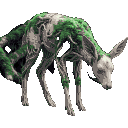
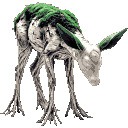
pixelate: chroma key, a lifted ramp floor, and a contrast stretch
Three fixes from putting eleven real creatures through.

⚠ rembg ATE THE HOLLOW STAG'S ANTLERS. It is a segmentation model and it
guesses; thin branching shapes against the low-contrast grey background my
own prompt asked for read as background. Nothing downstream could recover
them.

  --key removes an exact magenta background instead. Lossless on the subject,
  and thin structures survive because there is no guessing. Magenta because
  nothing in a natural bestiary is magenta — white would not do, since the
  Listening Fawn is birch-white and a white key would eat its body.
  The prompts now specify flat #FF00FF, and say why.

⚠ The ramp bottomed out near-black, which crushed any creature that is
mostly mid-tone. The Standing Green is green head to foot and its whole
interior disappeared. The floor is lifted.

⚠ A flatly-lit generation occupies a narrow band of values, so quantising it
directly throws away most of the palette — that is what 'removed details'
actually was. Each subject's own range is now stretched to fill the ramp,
measured over opaque pixels only so the transparent background cannot skew it.

The Standing Green and Listening Fawn are fixed by the tonal changes. The
Stag needs regenerating on magenta; deleted pixels cannot be recovered.

diff --git a/tool/pixelate.py b/tool/pixelate.py
@@ -87,11 +87,35 @@ BACKGROUND_DESATURATE = 0.45
 ALPHA_CUTOFF = 128
 
 
+# ⭐ Chroma key. Nothing in a natural bestiary is magenta, so it can never be
+# confused with the subject — including a birch-WHITE creature, which a white
+# background would eat.
+KEY_COLOUR = (255, 0, 255)
+KEY_TOLERANCE = 60
+
+
+def key_out(img: "Image.Image", tol: int = KEY_TOLERANCE) -> "Image.Image":
+    """Removes an exact background colour.
+
+    ⭐ **Lossless on the subject, and it keeps thin structures.** `rembg` is a
+    segmentation model and it guesses: it ate the Hollow Stag's antlers whole,
+    because branching shapes against a low-contrast background read as
+    background. A colour key cannot make that mistake.
+    """
+    px = np.asarray(img.convert("RGBA")).astype(np.int16)
+    dist = np.abs(px[:, :, :3] - np.array(KEY_COLOUR, dtype=np.int16)).sum(axis=2)
+    px[:, :, 3] = np.where(dist <= tol, 0, px[:, :, 3])
+    return Image.fromarray(px.astype(np.uint8), "RGBA")
+
+
 def cut_out(img: "Image.Image") -> "Image.Image":
     """Removes the background, leaving the subject on alpha.
 
-    ⚠ Optional and lazily imported — `rembg` pulls in onnxruntime and a model
-    download, which is a lot to force on someone whose art already has alpha.
+    ⚠ **Prefer `--key`.** This is a segmentation model and it guesses; on the
+    Hollow Stag it removed the antlers entirely. Use it only for art that was
+    generated without a keyable background.
+
+    ⚠ Lazily imported — `rembg` pulls in onnxruntime and a 176 MB model.
     """
     try:
         from rembg import remove
@@ -129,7 +153,11 @@ def element_colours() -> dict[str, tuple[int, int, int]]:
 def build_ramp(
     rgb: tuple[int, int, int],
     steps: int,
-    shadow: tuple[int, int, int] = (18, 14, 26),
+    # ⚠ **Not near-black.** A ramp bottoming out at the panel colour crushes
+    # any creature that is mostly mid-tone — The Standing Green is green from
+    # head to foot, and the dark half of the Flora ramp swallowed its interior
+    # entirely. A lifted floor keeps detail inside the silhouette.
+    shadow: tuple[int, int, int] = (46, 42, 58),
     light: tuple[int, int, int] = (255, 250, 240),
 ) -> list[tuple[int, int, int]]:
     """A dark-to-light ramp through one colour.
@@ -183,10 +211,13 @@ def to_sprite(
     palette: list[tuple[int, int, int]],
     size: int,
     cutout: bool = False,
+    key: bool = False,
 ) -> Image.Image:
     img = Image.open(src).convert("RGBA")
 
-    if cutout:
+    if key:
+        img = key_out(img)
+    elif cutout:
         img = cut_out(img).convert("RGBA")
 
     # ⚠ Alpha first, and kept out of the colour maths entirely.
@@ -208,6 +239,12 @@ def to_sprite(
 
     # Harden the edge before quantising, or the palette learns the halo.
     alpha = alpha.point(lambda a: 255 if a >= ALPHA_CUTOFF else 0)
+
+    # ⭐ Stretch the subject's own range to fill the ramp, measured over the
+    # OPAQUE pixels only. A flatly-lit generation uses a narrow band of values,
+    # and quantising that directly throws away most of the palette — which is
+    # what "the pixelate process removed details" actually was.
+    img = _stretch(img, alpha)
 
     # Remap colour onto the element palette. ⚠ dither=NONE.
     pal_img = Image.new("P", (1, 1))
@@ -278,6 +315,20 @@ def run_backgrounds(zone: str) -> None:
     print(f"  {matches[0].name} -> {dst.relative_to(ROOT)}  ({w}x{h})")
 
 
+def _stretch(img: "Image.Image", alpha: "Image.Image") -> "Image.Image":
+    """Linear contrast stretch over the subject, ignoring transparency."""
+    rgb = np.asarray(img.convert("RGB")).astype(np.float32)
+    mask = np.asarray(alpha) >= ALPHA_CUTOFF
+    if mask.sum() < 16:
+        return img
+    lum = rgb @ np.array([0.299, 0.587, 0.114], dtype=np.float32)
+    lo, hi = np.percentile(lum[mask], (2, 98))
+    if hi - lo < 8:
+        return img  # already flat; stretching would only amplify noise
+    scaled = (rgb - lo) * (255.0 / (hi - lo))
+    return Image.fromarray(scaled.clip(0, 255).astype(np.uint8), "RGB")
+
+
 def main() -> None:
     ap = argparse.ArgumentParser(description=__doc__)
     ap.add_argument("--zone", required=True, help="e.g. whispering_woods")
@@ -289,9 +340,16 @@ def main() -> None:
     ap.add_argument("--element", help="e.g. flora — creature mode only")
     ap.add_argument("--size", type=int, default=DEFAULT_SIZE)
     ap.add_argument(
+        "--key",
+        action="store_true",
+        help="remove a flat magenta background (preferred — exact, keeps "
+        "thin structures like antlers)",
+    )
+    ap.add_argument(
         "--cutout",
         action="store_true",
-        help="strip the background first (needed for generated scenes)",
+        help="strip the background with rembg (guesses; use only when the art "
+        "has no keyable background)",
     )
     args = ap.parse_args()
 
@@ -325,14 +383,16 @@ def main() -> None:
         if f.suffix.lower() in {".png", ".jpg", ".jpeg", ".webp"}
     )
     for src in sources:
-        sprite = to_sprite(src, palette, args.size, cutout=args.cutout)
+        sprite = to_sprite(
+            src, palette, args.size, cutout=args.cutout, key=args.key
+        )
         # ⭐ Always .png out, whatever went in — the creature id is the stem.
         dst = out_dir / f"{src.stem}.png"
         sprite.save(dst)
         made.append(src.stem)
         print(f"  {src.name} -> {dst.relative_to(ROOT)}  ({args.size}x{args.size})")
 
-    if made and not args.cutout:
+    if made and not (args.cutout or args.key):
         print(
             "\n⚠  ran without --cutout. If the source art has a background, "
             "it has just been pixelated along with the creature."

diff --git a/art/prompts/whispering_woods.md b/art/prompts/whispering_woods.md
@@ -1,23 +1,36 @@
 # Image prompts — Whispering Woods
 
 ⭐ **Paste-ready.** Each block is a complete prompt: house style plus that
-creature's description. Nothing to stitch together.
+creature's description.
 
-**Generate at 1024×1024**, transparent background if your tool supports it. If
-not, run `rembg` before the pipeline — the alpha handling assumes the
-background is already gone.
+## ⚠ Generate on a FLAT MAGENTA background
 
-⚠ **Save each file under the id in its heading**, into
-`art/source/whispering_woods/`. A test asserts art and roster agree in both
-directions, so a mistyped name fails the build rather than silently rendering
-nothing.
+The style line asks for pure `#FF00FF`, and that is load-bearing.
+
+⚠ **This replaces an earlier "plain mid-dark background", which cost real
+art.** Background removal was being done by `rembg`, a segmentation model that
+guesses — and against a low-contrast grey it **removed the Hollow Stag's
+antlers entirely**, branches, leaves and all. The sprite shipped as a stag with
+a bare head and nothing in the pipeline could recover it.
+
+⭐ **Magenta cannot be confused with anything in a forest bestiary**, so the
+background comes off with an exact colour key instead of a guess — lossless on
+the subject, and thin structures survive. ⚠ **White would not do**: the
+Listening Fawn is birch-white, and a white key would eat its body.
+
+**Generate at 1024×1024 or larger.** Save under the id in each heading, into
+`art/source/whispering_woods/`, then:
 
 ```sh
-python3 tool/pixelate.py --zone whispering_woods --element flora
+python3 tool/pixelate.py --zone whispering_woods --element flora --key
 ```
 
+⚠ `--key` for magenta art. `--cutout` is the old `rembg` path and remains only
+for art generated without a keyable background — it is the one that ate the
+antlers.
+
 ⚠ Descriptions come from [../../docs/BESTIARY_ART.md](../../docs/BESTIARY_ART.md).
-Edit them there and regenerate this file, or the two will drift.
+Edit them there and regenerate this file, or the two drift.
 
 ---
 
@@ -26,7 +39,7 @@ Edit them there and regenerate this file, or the two will drift.
 `listening_fawn.png` — *common · Drudge · Flora*
 
 ```
-Digital illustration in the style of a naturalist's field plate. The creature is isolated on a plain, flat, mid-dark background - no scenery, no ground line, no text, no border. Full body, three-quarter view, neutral standing pose, even diffuse lighting, no dramatic shadows. Clear readable silhouette. Muted natural palette dominated by greens and bark browns. A deer-shaped creature the size of a large dog, woven from pale root and birch bark rather than flesh. Its legs are bundled rootlets; its joints bend like green wood. It has no eyes and no mouth - the head is a smooth knot of grain, tilted downward, with two long leaf-shaped ears angled at the ground. Moss over the shoulders. Standing still, head lowered, listening.
+Digital illustration in the style of a naturalist's field plate. The creature is isolated on a COMPLETELY FLAT, SOLID, PURE MAGENTA background (hex #FF00FF) - a chroma key backdrop. Absolutely no scenery, no ground, no shadow cast on the background, no gradient, no vignette, no text, no border. Full body, three-quarter view, neutral standing pose, even diffuse lighting. Every part of the creature fully inside the frame, including thin extremities like antlers, horns and tendrils. Clear readable silhouette, strong value contrast between the creature and the magenta. Muted natural palette dominated by greens and bark browns. A deer-shaped creature the size of a large dog, woven from pale root and birch bark rather than flesh. Its legs are bundled rootlets; its joints bend like green wood. It has no eyes and no mouth - the head is a smooth knot of grain, tilted downward, with two long leaf-shaped ears angled at the ground. Moss over the shoulders. Standing still, head lowered, listening.
 ```
 
 ## Thornback Sprite
@@ -34,7 +47,7 @@ Digital illustration in the style of a naturalist's field plate. The creature is
 `thornback_sprite.png` — *common · Skirmisher · Flora*
 
 ```
-Digital illustration in the style of a naturalist's field plate. The creature is isolated on a plain, flat, mid-dark background - no scenery, no ground line, no text, no border. Full body, three-quarter view, neutral standing pose, even diffuse lighting, no dramatic shadows. Clear readable silhouette. Muted natural palette dominated by greens and bark browns. A knee-high humanoid of tangled green briar, wiry and hunched, with long thin arms. A ridge of black thorns runs from the crown of its head down its spine. Small, dark, wet-looking eyes set deep in a face of woven stems. Caught mid-stride, low to the ground, as if about to bolt sideways.
+Digital illustration in the style of a naturalist's field plate. The creature is isolated on a COMPLETELY FLAT, SOLID, PURE MAGENTA background (hex #FF00FF) - a chroma key backdrop. Absolutely no scenery, no ground, no shadow cast on the background, no gradient, no vignette, no text, no border. Full body, three-quarter view, neutral standing pose, even diffuse lighting. Every part of the creature fully inside the frame, including thin extremities like antlers, horns and tendrils. Clear readable silhouette, strong value contrast between the creature and the magenta. Muted natural palette dominated by greens and bark browns. A knee-high humanoid of tangled green briar, wiry and hunched, with long thin arms. A ridge of black thorns runs from the crown of its head down its spine. Small, dark, wet-looking eyes set deep in a face of woven stems. Caught mid-stride, low to the ground, as if about to bolt sideways.
 ```
 
 ## Sporecap Shambler
@@ -42,7 +55,7 @@ Digital illustration in the style of a naturalist's field plate. The creature is
 `sporecap_shambler.png` — *common · Blighter · Flora*
 
 ```
-Digital illustration in the style of a naturalist's field plate. The creature is isolated on a plain, flat, mid-dark background - no scenery, no ground line, no text, no border. Full body, three-quarter view, neutral standing pose, even diffuse lighting, no dramatic shadows. Clear readable silhouette. Muted natural palette dominated by greens and bark browns. A slumped, roughly man-shaped mass of decaying wood and leaf litter, waist to chest height, walking on knuckles. Its whole back and shoulders are crowded with pale grey-brown mushroom caps of varying size, the largest split and leaking a fine dust. No visible face. Damp, dark, crumbling at the edges.
+Digital illustration in the style of a naturalist's field plate. The creature is isolated on a COMPLETELY FLAT, SOLID, PURE MAGENTA background (hex #FF00FF) - a chroma key backdrop. Absolutely no scenery, no ground, no shadow cast on the background, no gradient, no vignette, no text, no border. Full body, three-quarter view, neutral standing pose, even diffuse lighting. Every part of the creature fully inside the frame, including thin extremities like antlers, horns and tendrils. Clear readable silhouette, strong value contrast between the creature and the magenta. Muted natural palette dominated by greens and bark browns. A slumped, roughly man-shaped mass of decaying wood and leaf litter, waist to chest height, walking on knuckles. Its whole back and shoulders are crowded with pale grey-brown mushroom caps of varying size, the largest split and leaking a fine dust. No visible face. Damp, dark, crumbling at the edges.
 ```
 
 ## Bindweed Creeper
@@ -50,7 +63,7 @@ Digital illustration in the style of a naturalist's field plate. The creature is
 `bindweed_creeper.png` — *common · **Siphon** · Flora*
 
 ```
-Digital illustration in the style of a naturalist's field plate. The creature is isolated on a plain, flat, mid-dark background - no scenery, no ground line, no text, no border. Full body, three-quarter view, neutral standing pose, even diffuse lighting, no dramatic shadows. Clear readable silhouette. Muted natural palette dominated by greens and bark browns. A writhing knot of pale green vine about the size of a curled dog, moving as a single mass with no head. White trumpet-shaped flowers open along its length. The vine tips are fine, pink and rootlike, and they end in small sucking mouths - the one detail that must read clearly, because it is what the creature does.
+Digital illustration in the style of a naturalist's field plate. The creature is isolated on a COMPLETELY FLAT, SOLID, PURE MAGENTA background (hex #FF00FF) - a chroma key backdrop. Absolutely no scenery, no ground, no shadow cast on the background, no gradient, no vignette, no text, no border. Full body, three-quarter view, neutral standing pose, even diffuse lighting. Every part of the creature fully inside the frame, including thin extremities like antlers, horns and tendrils. Clear readable silhouette, strong value contrast between the creature and the magenta. Muted natural palette dominated by greens and bark browns. A writhing knot of pale green vine about the size of a curled dog, moving as a single mass with no head. White trumpet-shaped flowers open along its length. The vine tips are fine, pink and rootlike, and they end in small sucking mouths - the one detail that must read clearly, because it is what the creature does.
 ```
 
 ## Rootknuckle
@@ -58,7 +71,7 @@ Digital illustration in the style of a naturalist's field plate. The creature is
 `rootknuckle.png` — *common · Bruiser · Flora*
 
 ```
-Digital illustration in the style of a naturalist's field plate. The creature is isolated on a plain, flat, mid-dark background - no scenery, no ground line, no text, no border. Full body, three-quarter view, neutral standing pose, even diffuse lighting, no dramatic shadows. Clear readable silhouette. Muted natural palette dominated by greens and bark browns. A single enormous fist of braided tree root, roughly the size of a cow, punched up out of the soil and balanced on the wrist. Wet black earth still clinging in the crevices. Four thick knuckle-ridges of hard grey bark. No face, no eyes - it is a limb, not a body, and there is nothing above it.
+Digital illustration in the style of a naturalist's field plate. The creature is isolated on a COMPLETELY FLAT, SOLID, PURE MAGENTA background (hex #FF00FF) - a chroma key backdrop. Absolutely no scenery, no ground, no shadow cast on the background, no gradient, no vignette, no text, no border. Full body, three-quarter view, neutral standing pose, even diffuse lighting. Every part of the creature fully inside the frame, including thin extremities like antlers, horns and tendrils. Clear readable silhouette, strong value contrast between the creature and the magenta. Muted natural palette dominated by greens and bark browns. A single enormous fist of braided tree root, roughly the size of a cow, punched up out of the soil and balanced on the wrist. Wet black earth still clinging in the crevices. Four thick knuckle-ridges of hard grey bark. No face, no eyes - it is a limb, not a body, and there is nothing above it.
 ```
 
 ## Elderroot
@@ -66,7 +79,7 @@ Digital illustration in the style of a naturalist's field plate. The creature is
 `elderroot.png` — *mini · Champion · Flora*
 
 ```
-Digital illustration in the style of a naturalist's field plate. The creature is isolated on a plain, flat, mid-dark background - no scenery, no ground line, no text, no border. Full body, three-quarter view, neutral standing pose, even diffuse lighting, no dramatic shadows. Clear readable silhouette. Muted natural palette dominated by greens and bark browns. A broad, low creature the size of a bull, built from one ancient root system lifted clear of the ground and walking on six thick tapering legs. Deeply fissured grey bark. Where a head would be there is a dense woven crown of smaller roots, and inside it a single dull amber knot like a clouded eye.
+Digital illustration in the style of a naturalist's field plate. The creature is isolated on a COMPLETELY FLAT, SOLID, PURE MAGENTA background (hex #FF00FF) - a chroma key backdrop. Absolutely no scenery, no ground, no shadow cast on the background, no gradient, no vignette, no text, no border. Full body, three-quarter view, neutral standing pose, even diffuse lighting. Every part of the creature fully inside the frame, including thin extremities like antlers, horns and tendrils. Clear readable silhouette, strong value contrast between the creature and the magenta. Muted natural palette dominated by greens and bark browns. A broad, low creature the size of a bull, built from one ancient root system lifted clear of the ground and walking on six thick tapering legs. Deeply fissured grey bark. Where a head would be there is a dense woven crown of smaller roots, and inside it a single dull amber knot like a clouded eye.
 ```
 
 ## Mother Spore
@@ -74,7 +87,7 @@ Digital illustration in the style of a naturalist's field plate. The creature is
 `mother_spore.png` — *mini · Redoubt · Flora*
 
 ```
-Digital illustration in the style of a naturalist's field plate. The creature is isolated on a plain, flat, mid-dark background - no scenery, no ground line, no text, no border. Full body, three-quarter view, neutral standing pose, even diffuse lighting, no dramatic shadows. Clear readable silhouette. Muted natural palette dominated by greens and bark browns. A vast pale fungal dome, twice the height of a person and wider than it is tall, sitting flush against the forest floor. Its surface is soft, slightly luminous, and rippling like a lung. A skirt of thick white gills underneath. Small mushroom growths cluster around its base like offspring.
+Digital illustration in the style of a naturalist's field plate. The creature is isolated on a COMPLETELY FLAT, SOLID, PURE MAGENTA background (hex #FF00FF) - a chroma key backdrop. Absolutely no scenery, no ground, no shadow cast on the background, no gradient, no vignette, no text, no border. Full body, three-quarter view, neutral standing pose, even diffuse lighting. Every part of the creature fully inside the frame, including thin extremities like antlers, horns and tendrils. Clear readable silhouette, strong value contrast between the creature and the magenta. Muted natural palette dominated by greens and bark browns. A vast pale fungal dome, twice the height of a person and wider than it is tall, sitting flush against the forest floor. Its surface is soft, slightly luminous, and rippling like a lung. A skirt of thick white gills underneath. Small mushroom growths cluster around its base like offspring.
 ```
 
 ## Hollow Stag
@@ -82,7 +95,7 @@ Digital illustration in the style of a naturalist's field plate. The creature is
 `hollow_stag.png` — *mini · Executioner · Flora*
 
 ```
-Digital illustration in the style of a naturalist's field plate. The creature is isolated on a plain, flat, mid-dark background - no scenery, no ground line, no text, no border. Full body, three-quarter view, neutral standing pose, even diffuse lighting, no dramatic shadows. Clear readable silhouette. Muted natural palette dominated by greens and bark browns. A full-grown stag standing tall as a horse, its body a hollow shell of silver-grey bark with the whole ribcage open and empty - you can see the forest through it. Its antlers are living branches still in leaf. It moves with the poise of a real deer, which is worse.
+Digital illustration in the style of a naturalist's field plate. The creature is isolated on a COMPLETELY FLAT, SOLID, PURE MAGENTA background (hex #FF00FF) - a chroma key backdrop. Absolutely no scenery, no ground, no shadow cast on the background, no gradient, no vignette, no text, no border. Full body, three-quarter view, neutral standing pose, even diffuse lighting. Every part of the creature fully inside the frame, including thin extremities like antlers, horns and tendrils. Clear readable silhouette, strong value contrast between the creature and the magenta. Muted natural palette dominated by greens and bark browns. A full-grown stag standing tall as a horse, its body a hollow shell of silver-grey bark with the whole ribcage open and empty - you can see the forest through it. Its antlers are living branches still in leaf. It moves with the poise of a real deer, which is worse.
 ```
 
 ## The Murmur
@@ -90,7 +103,7 @@ Digital illustration in the style of a naturalist's field plate. The creature is
 `the_murmur.png` — *mini · Hexer · Flora*
 
 ```
-Digital illustration in the style of a naturalist's field plate. The creature is isolated on a plain, flat, mid-dark background - no scenery, no ground line, no text, no border. Full body, three-quarter view, neutral standing pose, even diffuse lighting, no dramatic shadows. Clear readable silhouette. Muted natural palette dominated by greens and bark browns. Barely a body: a person-sized column of hanging root-hair and grey-green moss suspended just clear of the ground, drifting. Within the tangle, dozens of small dark hollows like open mouths at different heights. It should look like something you would only notice because it made a sound.
+Digital illustration in the style of a naturalist's field plate. The creature is isolated on a COMPLETELY FLAT, SOLID, PURE MAGENTA background (hex #FF00FF) - a chroma key backdrop. Absolutely no scenery, no ground, no shadow cast on the background, no gradient, no vignette, no text, no border. Full body, three-quarter view, neutral standing pose, even diffuse lighting. Every part of the creature fully inside the frame, including thin extremities like antlers, horns and tendrils. Clear readable silhouette, strong value contrast between the creature and the magenta. Muted natural palette dominated by greens and bark browns. Barely a body: a person-sized column of hanging root-hair and grey-green moss suspended just clear of the ground, drifting. Within the tangle, dozens of small dark hollows like open mouths at different heights. It should look like something you would only notice because it made a sound.
 ```
 
 ## Heartwood
@@ -98,7 +111,7 @@ Digital illustration in the style of a naturalist's field plate. The creature is
 `heartwood.png` — *boss · Juggernaut · Flora*
 
 ```
-Digital illustration in the style of a naturalist's field plate. The creature is isolated on a plain, flat, mid-dark background - no scenery, no ground line, no text, no border. Full body, three-quarter view, neutral standing pose, even diffuse lighting, no dramatic shadows. Clear readable silhouette. Muted natural palette dominated by greens and bark browns. An enormous ancient tree that has pulled itself half out of the earth, four storeys tall, walking on a splayed mass of root. Its trunk is split vertically into a deep vertical cleft lined with pale, wet, living wood. The canopy is full and healthy. Everything below the canopy is a wound.
+Digital illustration in the style of a naturalist's field plate. The creature is isolated on a COMPLETELY FLAT, SOLID, PURE MAGENTA background (hex #FF00FF) - a chroma key backdrop. Absolutely no scenery, no ground, no shadow cast on the background, no gradient, no vignette, no text, no border. Full body, three-quarter view, neutral standing pose, even diffuse lighting. Every part of the creature fully inside the frame, including thin extremities like antlers, horns and tendrils. Clear readable silhouette, strong value contrast between the creature and the magenta. Muted natural palette dominated by greens and bark browns. An enormous ancient tree that has pulled itself half out of the earth, four storeys tall, walking on a splayed mass of root. Its trunk is split vertically into a deep vertical cleft lined with pale, wet, living wood. The canopy is full and healthy. Everything below the canopy is a wound.
 ```
 
 ## The Standing Green
@@ -106,5 +119,5 @@ Digital illustration in the style of a naturalist's field plate. The creature is
 `the_standing_green.png` — *boss · Aspect · Flora*
 
 ```
-Digital illustration in the style of a naturalist's field plate. The creature is isolated on a plain, flat, mid-dark background - no scenery, no ground line, no text, no border. Full body, three-quarter view, neutral standing pose, even diffuse lighting, no dramatic shadows. Clear readable silhouette. Muted natural palette dominated by greens and bark browns. A human figure, slightly too tall and slightly too thin, grown entirely from living plants - the proportions right, the posture right, the stillness wrong. Face smooth and featureless, grass and small white flowers where hair would be. Unsettling because it is nearly correct, not because it is monstrous. Arms at its sides. Standing, facing the viewer.
+Digital illustration in the style of a naturalist's field plate. The creature is isolated on a COMPLETELY FLAT, SOLID, PURE MAGENTA background (hex #FF00FF) - a chroma key backdrop. Absolutely no scenery, no ground, no shadow cast on the background, no gradient, no vignette, no text, no border. Full body, three-quarter view, neutral standing pose, even diffuse lighting. Every part of the creature fully inside the frame, including thin extremities like antlers, horns and tendrils. Clear readable silhouette, strong value contrast between the creature and the magenta. Muted natural palette dominated by greens and bark browns. A human figure, slightly too tall and slightly too thin, grown entirely from living plants - the proportions right, the posture right, the stillness wrong. Face smooth and featureless, grass and small white flowers where hair would be. Unsettling because it is nearly correct, not because it is monstrous. Arms at its sides. Standing, facing the viewer.
 ```

diff --git a/art/README.md b/art/README.md
@@ -30,9 +30,18 @@ under green moss, and against a Flora-only ramp both collapsed into the same
 green. The neutral ramp is what lets bark, bone, stone and ash survive while
 the element hue still says which zone you are in.
 
-⚠ **`--cutout` unless the art already has a transparent background.** A
-generator returns a scene; the pipeline's trim and composite assume the
-background is gone, so without it the scenery gets pixelated too.
+⚠ **Generate on flat magenta and use `--key`.** It is an exact colour match,
+so it is lossless on the subject and thin structures survive.
+
+⚠ **`--cutout` is the fallback and it GUESSES.** `rembg` is a segmentation
+model; against the low-contrast grey background an earlier prompt asked for, it
+removed the Hollow Stag's antlers entirely and nothing downstream could recover
+them. Use it only for art with no keyable background.
+
+⭐ **The pipeline also stretches each subject's own tonal range** before
+quantising, measured over opaque pixels only. A flatly-lit generation occupies
+a narrow band of values, and quantising that directly throws away most of the
+palette — which is what "the pixelate process removed details" actually was.
 
 ## Backgrounds
 
